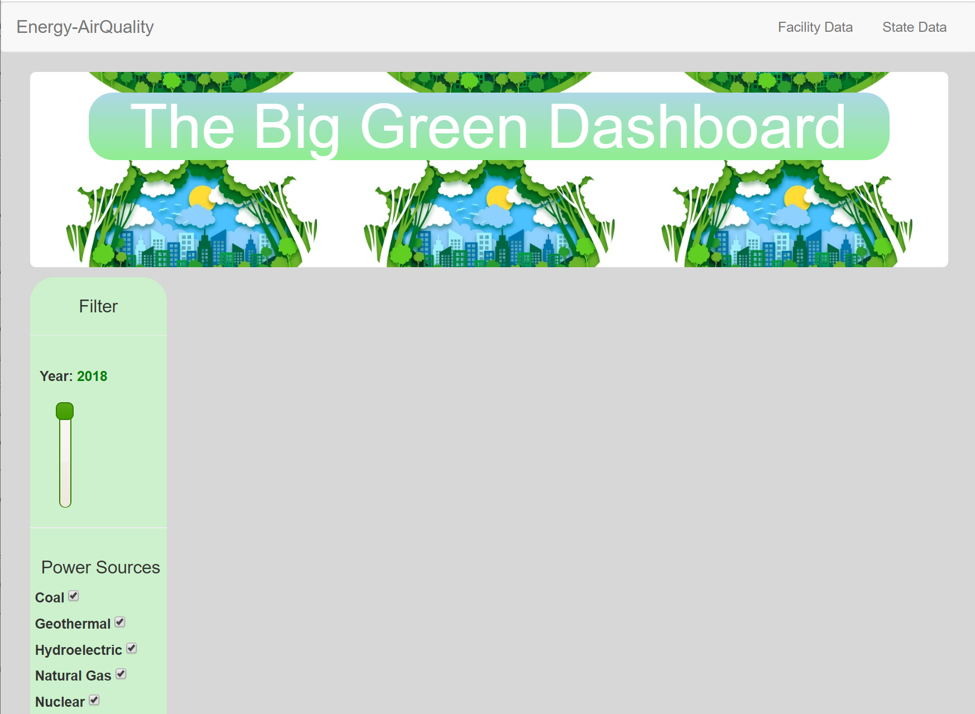
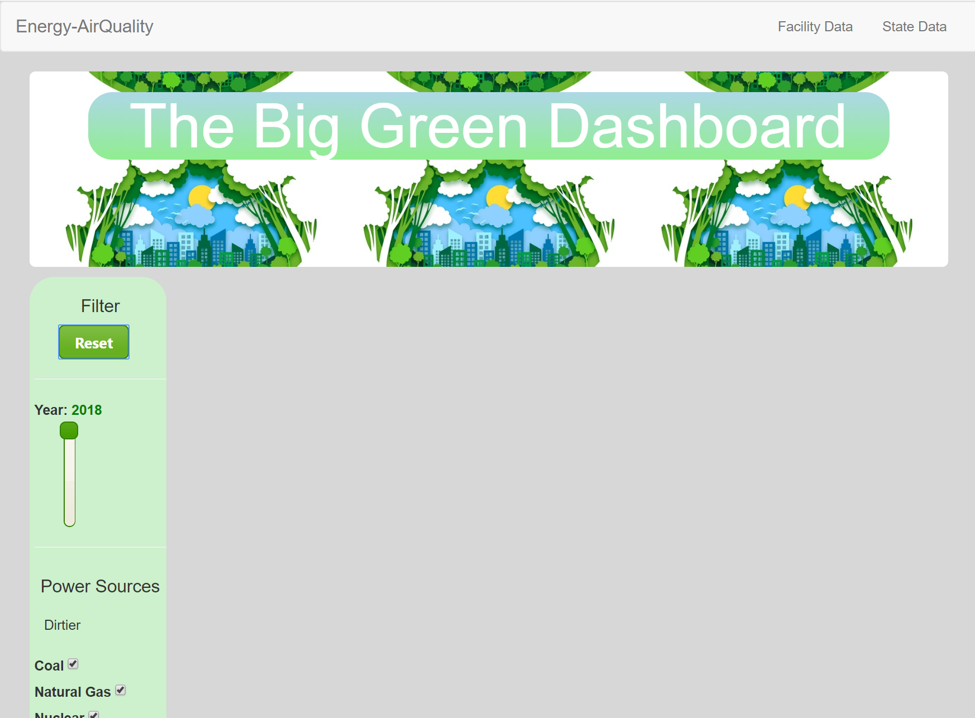
cleaning up js

diff --git a/energy_emissions/index.html b/energy_emissions/index.html
@@ -6,13 +6,11 @@
   <title>Data Analytics - Project 2</title>
   <!-- reset the CSS -->
   <link rel="stylesheet" href="assets/css/reset.css">
-  <!-- basic jquery file-->
-  <script src="https://code.jquery.com/jquery-3.3.1.slim.min.js" integrity="sha384-q8i/X+965DzO0rT7abK41JStQIAqVgRVzpbzo5smXKp4YfRvH+8abtTE1Pi6jizo" crossorigin="anonymous"></script>
-  <!-- <script src="https://cdnjs.cloudflare.com/ajax/libs/popper.js/1.14.7/umd/popper.min.js" integrity="sha384-UO2eT0CpHqdSJQ6hJty5KVphtPhzWj9WO1clHTMGa3JDZwrnQq4sF86dIHNDz0W1" crossorigin="anonymous"></script> -->
-  <script src="https://stackpath.bootstrapcdn.com/bootstrap/4.3.1/js/bootstrap.min.js" integrity="sha384-JjSmVgyd0p3pXB1rRibZUAYoIIy6OrQ6VrjIEaFf/nJGzIxFDsf4x0xIM+B07jRM" crossorigin="anonymous"></script>
   <!-- javascript files for jquery and jquery ui-->
   <script src="https://code.jquery.com/jquery-1.12.4.js"></script>
   <script src="https://code.jquery.com/ui/1.12.1/jquery-ui.js"></script>  
+  <!-- bootstrap for teh formatting -->
+  <script src="https://stackpath.bootstrapcdn.com/bootstrap/4.3.1/js/bootstrap.min.js" integrity="sha384-JjSmVgyd0p3pXB1rRibZUAYoIIy6OrQ6VrjIEaFf/nJGzIxFDsf4x0xIM+B07jRM" crossorigin="anonymous"></script>
   <!-- css for jquery ui and ui theme (green) -->
   <link rel="stylesheet" href="assets/css/jquery-ui.css">
   <link rel="stylesheet" href="assets/css/jquery-ui.structure.css">
@@ -22,10 +20,7 @@
   <!-- Latest compiled and minified JavaScript -->
   <script src="https://stackpath.bootstrapcdn.com/bootstrap/3.4.1/js/bootstrap.min.js" integrity="sha384-aJ21OjlMXNL5UyIl/XNwTMqvzeRMZH2w8c5cRVpzpU8Y5bApTppSuUkhZXN0VxHd" crossorigin="anonymous"></script>
   <!-- link to custom CSS, used in all html pages in the project-->
-  <link rel="stylesheet" href="assets/css/styles.css">
-  <!-- d3 javascript -->
-  <script src="https://cdnjs.cloudflare.com/ajax/libs/d3/5.5.0/d3.js"></script>
-  
+  <link rel="stylesheet" href="assets/css/styles.css">  
 </head>
 <body>
   <!-- nav bar, code is used in all html pages-->
@@ -68,23 +63,18 @@
       <div class= "col-md-1">
         <div class="filter_div">
           <h4>Filter</h4>
+          <button class="ui-button ui-widget ui-corner-all" id="filter_reset" name="filter_reset">Reset</button>
           <hr>
-          <p>
-            <label for="year_selected">Year:</label>
-            <input type="text" id="year_selected" readonly class="input_short">
-          </p>          
+          <label for="year_selected">Year:</label>
+          <input type="text" id="year_selected" readonly class="input_short">          
           <div id="year_slider" style="height:100px;"></div>
           <hr>
-          <div class="widget">
             <fieldset>
               <h4>Power Sources</h4>
               <div class="controlgroup">
+                <p>Dirtier</p>
                 <label for="coal_filter">Coal</label>
                 <input type="checkbox" name="coal_filter" id="coal_filter" checked="checked"><br>
-                <label for="geo_filter">Geothermal</label>
-                <input type="checkbox" name="geo_filter" id="geo_filter" checked="checked"><br>
-                <label for="hydro_filter">Hydroelectric</label>
-                <input type="checkbox" name="hydro_filter" id="hydro_filter" checked="checked"><br>
                 <label for="ng_filter">Natural Gas</label>
                 <input type="checkbox" name="ng_filter" id="ng_filter" checked="checked"><br>
                 <label for="nuc_filter">Nuclear</label>
@@ -97,17 +87,21 @@
                 <input type="checkbox" name="coal_filter" id="othergas_filter" checked="checked"><br>
                 <label for="petro_filter">Petroleum</label>
                 <input type="checkbox" name="coal_filter" id="petro_filter" checked="checked"><br>
+                <label for="wood_filter">Wood</label>
+                <input type="checkbox" name="wood_filter" id="wood_filter" checked="checked"><br>
+                <p>Greener</p>
+                <label for="geo_filter">Geothermal</label>
+                <input type="checkbox" name="geo_filter" id="geo_filter" checked="checked"><br>
+                <label for="hydro_filter">Hydroelectric</label>
+                <input type="checkbox" name="hydro_filter" id="hydro_filter" checked="checked"><br>
                 <label for="pump_filter">Pumped Storage</label>
                 <input type="checkbox" name="coal_filter" id="pump_filter" checked="checked"><br>
                 <label for="solar_filter">Solar</label>
                 <input type="checkbox" name="coal_filter" id="solar_filter" checked="checked"><br>
                 <label for="wind_filter">Wind</label>
                 <input type="checkbox" name="coal_filter" id="wind_filter" checked="checked"><br>
-                <label for="wood_filter">Wood</label>
-                <input type="checkbox" name="wood_filter" id="wood_filter" checked="checked">
               </div>
             </fieldset>
-          </div>
         </div>
       </div>
       <!-- div to put all the chart divs in-->
@@ -140,7 +134,10 @@
     </div>   
   </div>
   </div>
-<!-- custom application javascript file-->
+  <div id="sysmessage_dialog" title="System Message">
+    <span id="message_text"></span>
+  </div>
+<!-- custom application javascript file, using jquery and jquery ui-->
 <script src="assets\js\app.js"></script>  
 </body>
 </html>

diff --git a/energy_emissions/assets/js/app.js b/energy_emissions/assets/js/app.js
@@ -1,13 +1,52 @@
-// drop down select
+// A $( document ).ready() block.
+$( document ).ready(function() {
+    // slider for year
 
-$( "#year_slider" ).slider({
-    orientation: "vertical",
-    range: "min",
-    min: 1990,
-    max: 2018,
-    value: 2018,
-    slide: function( event, ui ) {
-      $( "#year_selected" ).val( ui.value );
-    }
-  });
-  $( "#year_selected" ).val( $( "#year_slider" ).slider( "value" ) );
+    // input to display year on top
+    var $year_selected = $('#year_selected');
+
+    var $year_slider = $("#year_slider" ).slider({
+        orientation: "vertical",
+        range: "min",
+        min: 1990,
+        max: 2018,
+        value: 2018,
+        slide: function( event, ui ) {
+        $( "#year_selected" ).val( ui.value );
+        }
+    });
+    $year_selected.val( $year_slider.slider( "value" ) );
+
+    // dialog for system messages
+    var $sysmessage_dialog = $('#sysmessage_dialog').dialog({
+        autoOpen: false,
+        modal: true,
+        dialogClass: "alert",
+        buttons: [
+            {
+            text: "Ok",
+            class: "ui-button ui-widget ui-corner-all",
+            click: function() {
+                $sysmessage_dialog.dialog('close');
+            }
+            }
+        ]
+
+    });
+
+    // span for message text
+    var $message_text = $('#message_text');
+
+    // filter reset button (sets options back to default)
+    var $filter_reset = $('#filter_reset').button().click(function(d) {
+
+    // set the message an open the dialog
+    $message_text.text('Under construction, not ready yet!')
+
+    // open the dialog
+    $sysmessage_dialog.dialog('open');
+
+
+    })
+    
+});

diff --git a/energy_emissions/assets/css/styles.css b/energy_emissions/assets/css/styles.css
@@ -81,21 +81,22 @@ h4 {
   width: 140px; 
   padding-top: 10px;
   margin-top: 10px;
-
+  padding-left: 5px;
 }
 
 #year_slider {
 
   margin-left: 30px;
-
-}
-
-fieldset {
-
-  padding-left: 5px;
+  margin-top: 5px;
 
 }
 
 .ui-controlgroup.ui-controlgroup-vertical > .ui-controlgroup-label {
   text-align: center;
+}
+
+#filter_reset {
+
+  margin-left: 25px;
+
 }
